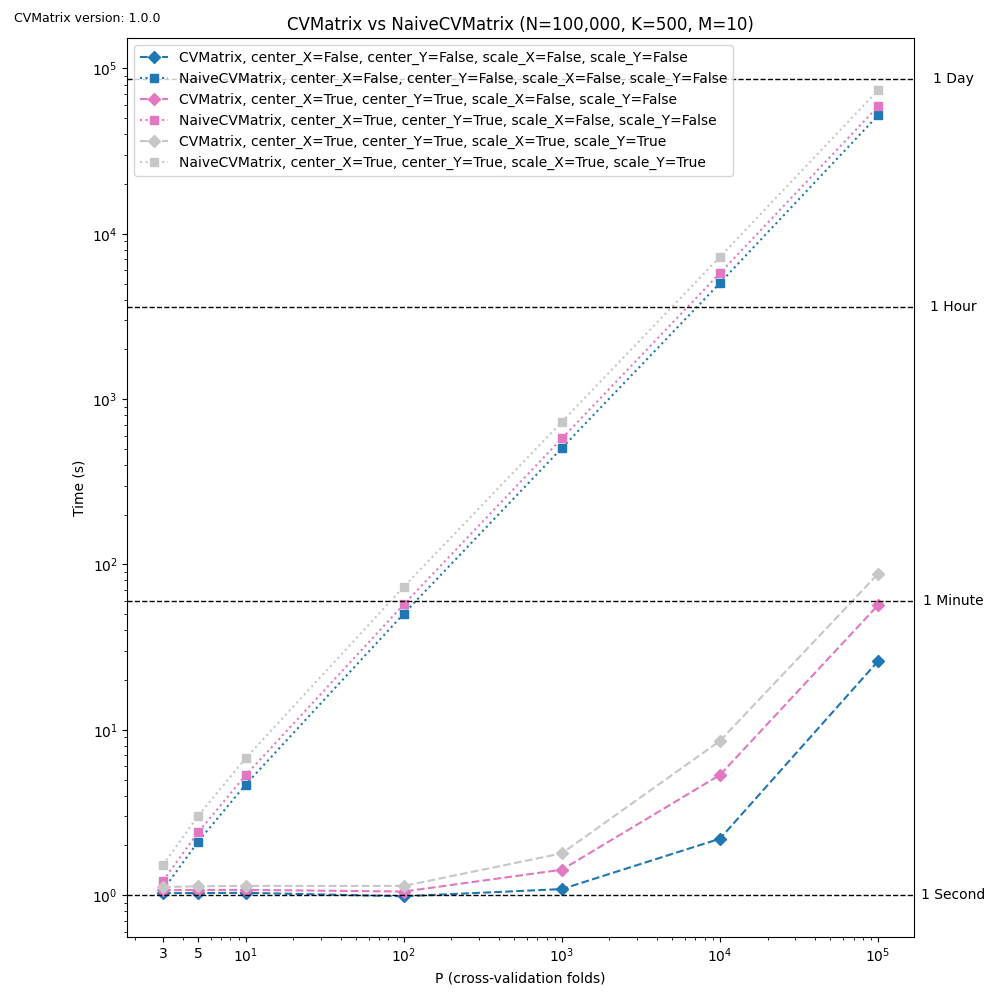
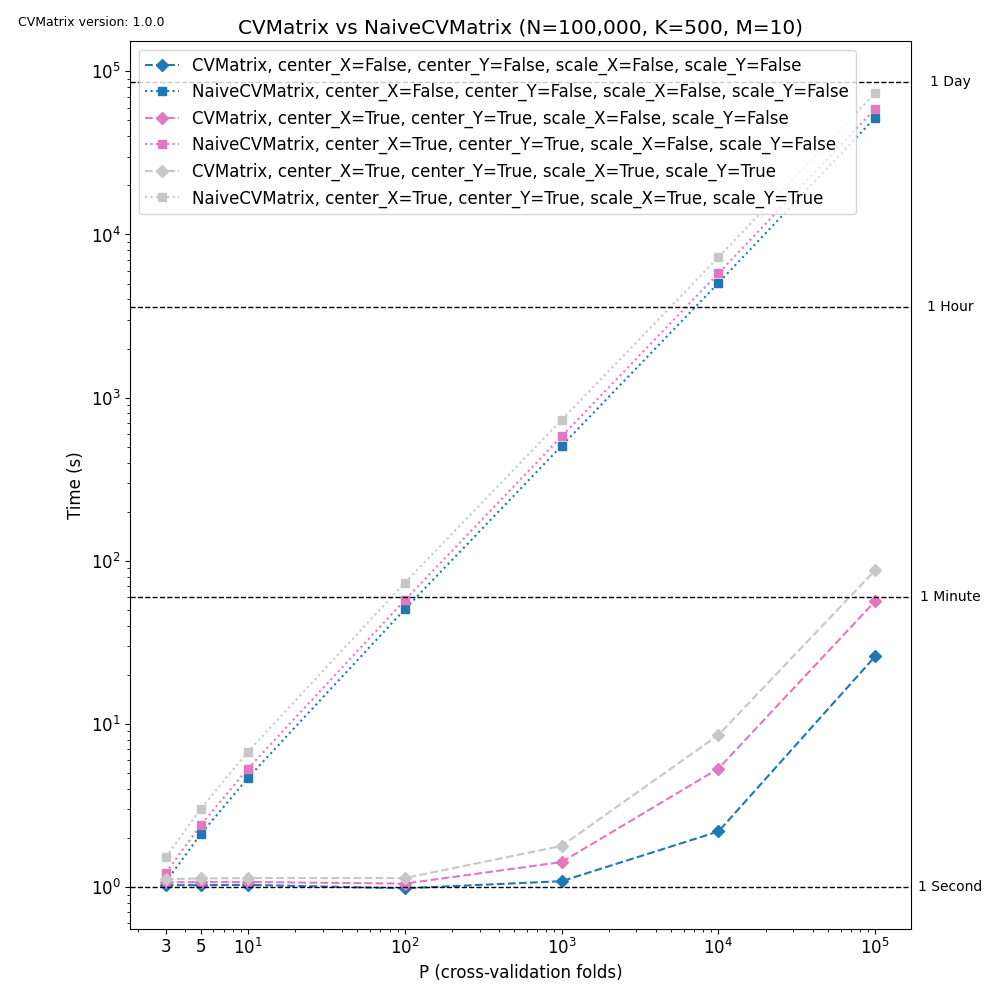
Updated font size in benchmark plots

diff --git a/benchmarks/plot_benchmark.py b/benchmarks/plot_benchmark.py
@@ -217,6 +217,8 @@ def get_combination_to_color_map():
     return combination_to_color_map
 
 if __name__ == '__main__':
+    # Set the font size, legend size, and axis label size
+    plt.rcParams.update({'font.size': 12})
     df = pd.read_csv('benchmark_results.csv')
     combination_to_color_map = get_combination_to_color_map()
     plot_cvmatrix_vs_naive(df, combination_to_color_map)
